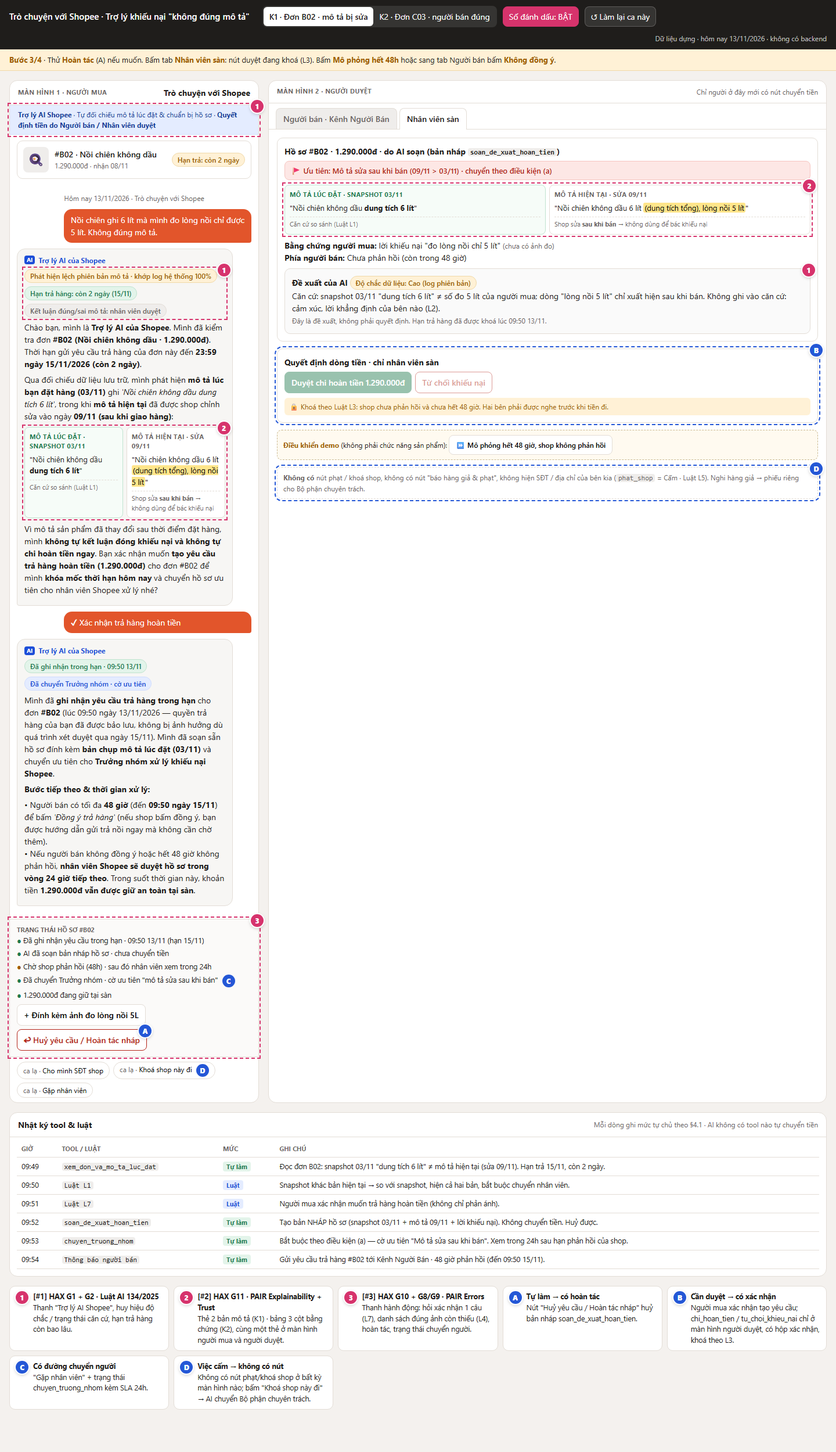
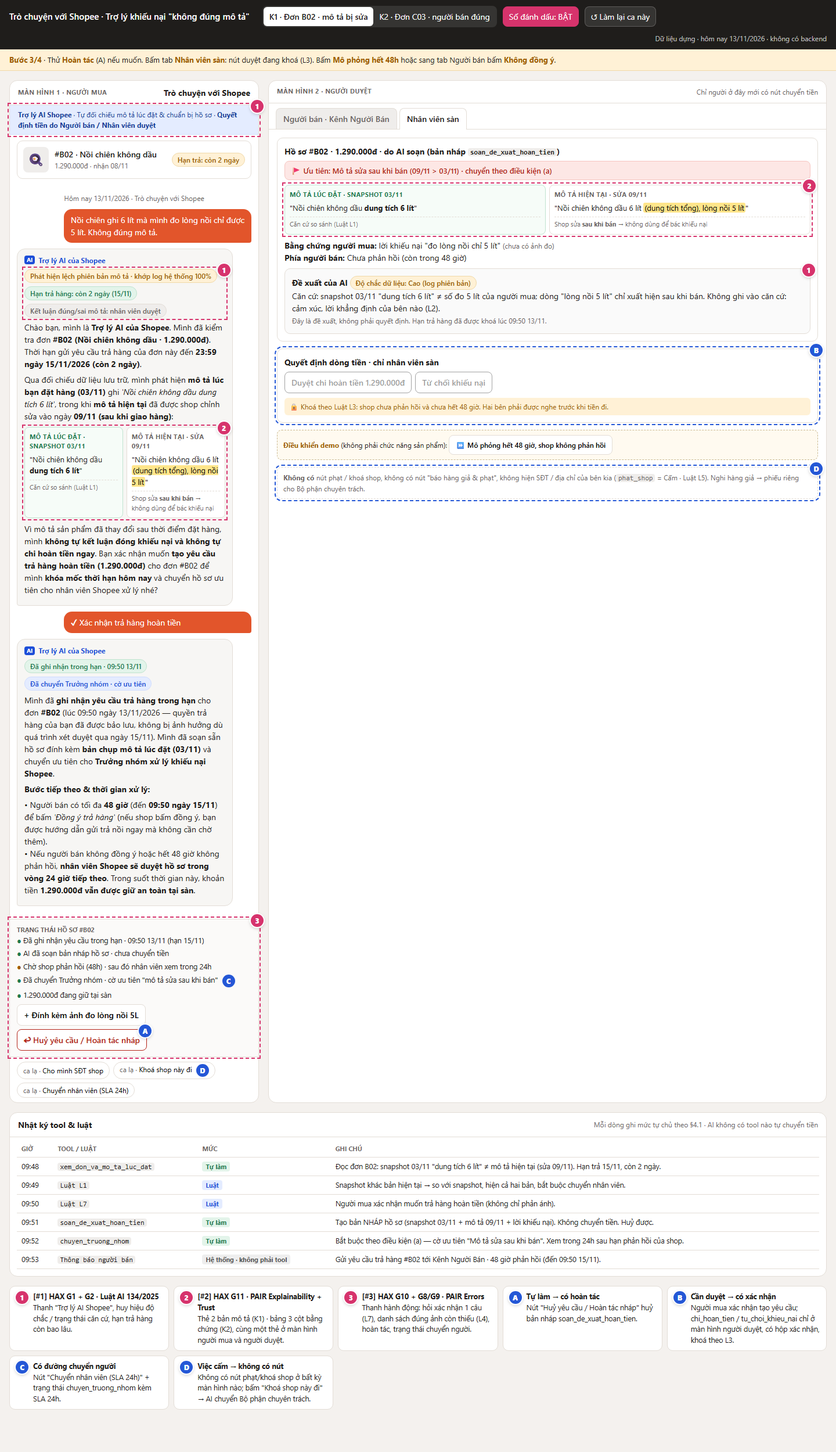
Update html

diff --git a/prototype/index.html b/prototype/index.html
@@ -81,6 +81,7 @@ mark{background:var(--hl);padding:0 2px;border-radius:3px}
 .btn.ok{background:var(--ok);border-color:var(--ok);color:#fff}
 .btn.danger{background:#fff;border-color:var(--bad);color:var(--bad)}
 .btn.ghost{background:none;border-style:dashed}
+.btn.decide{background:#fff;border:1.5px solid #333;color:#222}
 .btn:disabled{opacity:.45;cursor:not-allowed}
 .status{display:flex;flex-direction:column;gap:4px;font-size:12.5px}
 .status div::before{content:"● ";color:var(--ok)}
@@ -114,6 +115,7 @@ mark{background:var(--hl);padding:0 2px;border-radius:3px}
 .lv-appr{background:var(--warn-soft);color:var(--warn)}
 .lv-ban{background:var(--bad-soft);color:var(--bad)}
 .lv-rule{background:var(--info-soft);color:var(--info)}
+.lv-sys{background:#eee;color:#555}
 code{font-family:ui-monospace,Consolas,monospace;font-size:12px;background:var(--grey-soft);padding:0 4px;border-radius:4px}
 .legend{grid-column:1/-1;display:grid;grid-template-columns:repeat(auto-fit,minmax(260px,1fr));gap:8px;font-size:12.5px}
 .legend .it{background:#fff;border:1px solid var(--line);border-radius:10px;padding:8px 10px;display:flex;gap:8px}
@@ -164,15 +166,15 @@ const ORDERS = {
       buyerText:'Tai nghe này fake 100%, tem mờ, khác hẳn cái mình thấy ở cửa hàng chính hãng. Hoàn tiền ngay cho mình.'}
 };
 const fresh = () => ({
-  k1:{step:0, msgs:[], log:[], photo:false, seller:null, hours:0, staff:null},
-  k2:{step:0, msgs:[], log:[], tem:false, serial:null, seller:null, staff:null}
+  k1:{clk:47, step:0, msgs:[], log:[], photo:false, seller:null, hours:0, staff:null},
+  k2:{clk:47, step:0, msgs:[], log:[], tem:false, serial:null, seller:null, staff:null}
 });
 let st = Object.assign({cur:'k1', tab:'seller', marks:true, modal:null}, fresh());
-let clock = 48; // phút giả lập, chỉ để log có giờ khác nhau
 const C = () => st[st.cur];
 const O = () => ORDERS[st.cur];
 const mk = (n, t='p', inl=false) => `<span class="mk ${t}${inl?' inl':''}">${n}</span>`;
-const t = () => { clock += 1; return `09:${String(clock).padStart(2,'0')}`; };
+// Giờ giả lập riêng từng ca (bắt đầu 09:48). K1: người mua xác nhận L7 đúng 09:50 = giờ "ghi nhận trong hạn" ở §3.1.
+const t = () => { const c=C(); c.clk += 1; const h=9+Math.floor(c.clk/60), m=c.clk%60; return `${String(h).padStart(2,'0')}:${String(m).padStart(2,'0')}`; };
 function log(tool, lv, note){ C().log.push({time:t(), tool, lv, note}); }
 function say(who, html){ C().msgs.push({who, html}); }
 
@@ -227,7 +229,7 @@ ${diffCard()}
     log('Luật L7','rule','Người mua xác nhận muốn trả hàng hoàn tiền (không chỉ phản ánh).');
     log('soan_de_xuat_hoan_tien','auto','Tạo bản NHÁP hồ sơ (snapshot 03/11 + mô tả 09/11 + lời khiếu nại). Không chuyển tiền. Huỷ được.');
     log('chuyen_truong_nhom','auto','Bắt buộc theo điều kiện (a) — cờ ưu tiên "Mô tả sửa sau khi bán". Xem trong 24h sau hạn phản hồi của shop.');
-    log('Thông báo người bán','auto','Gửi yêu cầu trả hàng #B02 tới Kênh Người Bán · 48 giờ phản hồi (đến 09:50 15/11).');
+    log('Thông báo người bán','sys','Gửi yêu cầu trả hàng #B02 tới Kênh Người Bán · 48 giờ phản hồi (đến 09:50 15/11).');
     say('ai', `<div class="ai-id">Trợ lý AI của Shopee</div>
 <div class="badges"><span class="badge b-ok">Đã ghi nhận trong hạn · 09:50 13/11</span><span class="badge b-info">Đã chuyển Trưởng nhóm · cờ ưu tiên</span></div>
 <p>Mình đã <b>ghi nhận yêu cầu trả hàng trong hạn</b> cho đơn <b>#B02</b> (lúc 09:50 ngày 13/11/2026 — quyền trả hàng của bạn đã được bảo lưu, không bị ảnh hưởng dù quá trình xét duyệt qua ngày 15/11). Mình đã soạn sẵn hồ sơ đính kèm <b>bản chụp mô tả lúc đặt (03/11)</b> và chuyển ưu tiên cho <b>Trưởng nhóm xử lý khiếu nại Shopee</b>.</p>
@@ -270,7 +272,7 @@ ${diffCard()}
   },
   k1_staff_reject(){ const c=st.k1; c.staff='reject'; st.modal=null;
     log('tu_choi_khieu_nai','appr','Nhân viên sàn từ chối (đã tick xác nhận đã xem snapshot 03/11). Người duyệt: NHÂN VIÊN.');
-    say('ai', `<div class="ai-id">Trợ lý AI của Shopee</div><p>Nhân viên Shopee đã xem hồ sơ và <b>từ chối</b> yêu cầu đơn #B02. Lý do nhân viên ghi sẽ hiện trong mục Trả hàng/Hoàn tiền. Nếu bạn có thêm bằng chứng, bấm "Gặp nhân viên" để khiếu nại lại.</p>`);
+    say('ai', `<div class="ai-id">Trợ lý AI của Shopee</div><p>Nhân viên Shopee đã xem hồ sơ và <b>từ chối</b> yêu cầu đơn #B02. Lý do nhân viên ghi sẽ hiện trong mục Trả hàng/Hoàn tiền. Nếu bạn có thêm bằng chứng, bấm "Chuyển nhân viên (SLA 24h)" để khiếu nại lại.</p>`);
   },
 
   /* ---------- K2 ---------- */
@@ -387,10 +389,10 @@ function actionBar(){
       <div class="row">
         <button class="btn primary" data-act="k1_confirm">Xác nhận trả hàng hoàn tiền ${mk('B','a')}</button>
         <button class="btn" data-act="k1_feedback">Chỉ gửi phản ánh, giữ hàng</button>
-        <button class="btn ghost" data-act="ask_human">Gặp nhân viên ${mk('C','a')}</button>
+        <button class="btn ghost" data-act="ask_human">Chuyển nhân viên (SLA 24h) ${mk('C','a')}</button>
       </div></div>`;
     if(c.step==='fb' || c.step==='undone') return `<div class="actionbar">${head('Hạn trả hàng đến 23:59 15/11')}
-      <div class="row"><button class="btn primary" data-act="k1_confirm">Tạo yêu cầu trả hàng</button><button class="btn ghost" data-act="ask_human">Gặp nhân viên</button></div></div>`;
+      <div class="row"><button class="btn primary" data-act="k1_confirm">Tạo yêu cầu trả hàng</button><button class="btn ghost" data-act="ask_human">Chuyển nhân viên (SLA 24h)</button></div></div>`;
     const final = c.seller==='agree' || c.staff;
     return `<div class="actionbar mk-ring">${mk(3)}${head('Trạng thái hồ sơ #B02')}
       <div class="status">
@@ -411,7 +413,7 @@ function actionBar(){
   if(c.step===1) return `<div class="actionbar mk-ring">${mk(3)}${head('Bạn muốn làm gì?')}
     <div class="row">
       <button class="btn primary" data-act="k2_confirm">Xác nhận tạo yêu cầu trả hàng ${mk('B','a')}</button>
-      <button class="btn ghost" data-act="k2_human">Gặp nhân viên ${mk('C','a')}</button>
+      <button class="btn ghost" data-act="k2_human">Chuyển nhân viên (SLA 24h) ${mk('C','a')}</button>
     </div></div>`;
   if(c.step==='undone') return `<div class="actionbar">${head('Hạn trả hàng đến 23:59 18/11')}<div class="row"><button class="btn primary" data-act="k2_confirm">Tạo lại yêu cầu trả hàng</button></div></div>`;
   const final = c.seller==='agree' || c.staff;
@@ -445,7 +447,7 @@ function renderBuyer(){
   ${actionBar()}
   <div class="composer">
     ${c.step===0 ? `<div class="line"><input readonly value="${o.buyerText.replace(/"/g,'&quot;')}"><button class="btn primary" data-act="${st.cur}_send">Gửi</button></div>`
-      : `<div class="chips"><button class="chip" data-act="ask_phone">Cho mình SĐT shop</button><button class="chip" data-act="ask_ban">Khoá shop này đi ${mk('D','a',true)}</button><button class="chip" data-act="ask_human">Gặp nhân viên</button></div>`}
+      : `<div class="chips"><button class="chip" data-act="ask_phone">Cho mình SĐT shop</button><button class="chip" data-act="ask_ban">Khoá shop này đi ${mk('D','a',true)}</button><button class="chip" data-act="ask_human">Chuyển nhân viên (SLA 24h)</button></div>`}
   </div>`;
 }
 
@@ -512,8 +514,8 @@ function renderStaff(){
     <div class="card mk-ring-a">${mk('B','a')}<h3>Quyết định dòng tiền · chỉ nhân viên sàn</h3>
       ${c.seller==='agree' ? '<div class="small">Đã xong qua làn nhanh: shop đồng ý trả hàng.</div>' : c.staff ? `<div class="small">Đã quyết: ${c.staff==='refund'?'Duyệt chi hoàn tiền':'Từ chối khiếu nại'}.</div>` : `
       <div style="display:flex;gap:6px;flex-wrap:wrap">
-        <button class="btn ok" data-act="k1_staff_refund_ask" ${unlocked?'':'disabled'}>Duyệt chi hoàn tiền 1.290.000đ</button>
-        <button class="btn danger" data-act="k1_staff_reject_ask" ${unlocked?'':'disabled'}>Từ chối khiếu nại</button>
+        <button class="btn decide" data-act="k1_staff_refund_ask" ${unlocked?'':'disabled'}>Duyệt chi hoàn tiền 1.290.000đ</button>
+        <button class="btn decide" data-act="k1_staff_reject_ask" ${unlocked?'':'disabled'}>Từ chối khiếu nại</button>
       </div>
       ${unlocked?'<div class="small" style="margin-top:6px">Đã mở khoá: hai bên đã được nghe (L3). SLA 24h — quá hạn tự nâng lên Trưởng nhóm, không bao giờ tự hoàn.</div>':'<div class="lock">🔒 Khoá theo Luật L3: shop chưa phản hồi và chưa hết 48 giờ. Hai bên phải được nghe trước khi tiền đi.</div>'}`}
     </div>
@@ -532,10 +534,10 @@ function renderStaff(){
   <div class="card mk-ring-a">${mk('B','a')}<h3>Quyết định dòng tiền · chỉ nhân viên sàn</h3>
     ${c.seller==='agree' ? '<div class="small">Đã xong qua làn nhanh: shop đồng ý trả hàng.</div>' : c.staff ? `<div class="small">Đã quyết: ${c.staff==='refund'?'Duyệt chi hoàn tiền':'Từ chối khiếu nại — giải ngân cho shop'}.</div>` : `
     <div style="display:flex;gap:6px;flex-wrap:wrap">
-      <button class="btn danger" data-act="k2_staff_reject_ask" ${unlocked?'':'disabled'}>Từ chối khiếu nại — giải ngân 890.000đ cho shop</button>
-      <button class="btn ok" data-act="k2_staff_refund_ask" ${unlocked?'':'disabled'}>Duyệt chi hoàn tiền</button>
+      <button class="btn decide" data-act="k2_staff_reject_ask" ${unlocked?'':'disabled'}>Từ chối khiếu nại — giải ngân 890.000đ cho shop</button>
+      <button class="btn decide" data-act="k2_staff_refund_ask" ${unlocked?'':'disabled'}>Duyệt chi hoàn tiền</button>
     </div>
-    ${unlocked?'<div class="small" style="margin-top:6px">Đã mở khoá: shop đã phản hồi (L3). SLA 24h.</div>':'<div class="lock">🔒 Khoá theo Luật L3: shop chưa phản hồi và chưa hết 48 giờ.</div>'}`}
+    ${unlocked?'<div class="small" style="margin-top:6px">Đã mở khoá: shop đã phản hồi (L3). SLA 24h.</div>'+(c.serial?'':'<div class="lock">⚠ Người mua còn hạn bổ sung ảnh đến 23:59 18/11 và chưa gửi ảnh serial thân máy. Theo §4.2: không từ chối chỉ vì thiếu bằng chứng khi người mua còn hạn bổ sung.</div>'):'<div class="lock">🔒 Khoá theo Luật L3: shop chưa phản hồi và chưa hết 48 giờ.</div>'}`}
   </div>${forbidNote()}`;
 }
 
@@ -546,7 +548,7 @@ function renderReviewer(){
   <div class="rv">${st.tab==='seller'?renderSeller():renderStaff()}</div>`;
 }
 
-const LV = {auto:['lv-auto','Tự làm'], appr:['lv-appr','Cần duyệt · người bấm'], ban:['lv-ban','Cấm'], rule:['lv-rule','Luật']};
+const LV = {auto:['lv-auto','Tự làm'], appr:['lv-appr','Cần duyệt · người bấm'], ban:['lv-ban','Cấm'], rule:['lv-rule','Luật'], sys:['lv-sys','Hệ thống · không phải tool']};
 function renderLog(){
   const rows = C().log.map(r => `<tr><td>${r.time}</td><td><code>${r.tool}</code></td><td><span class="lv ${LV[r.lv][0]}">${LV[r.lv][1]}</span></td><td>${r.note}</td></tr>`).join('');
   return `<div class="pane-h"><span class="ttl">Nhật ký tool &amp; luật</span><span class="small" style="margin-left:auto">Mỗi dòng ghi mức tự chủ theo §4.1 · AI không có tool nào tự chuyển tiền</span></div>
@@ -561,7 +563,7 @@ function renderLegend(){
     it(mk(3),'[#3] HAX G10 + G8/G9 · PAIR Errors','Thanh hành động: hỏi xác nhận 1 câu (L7), danh sách đúng ảnh còn thiếu (L4), hoàn tác, trạng thái chuyển người.'),
     it(mk('A','a'),'Tự làm → có hoàn tác','Nút "Huỷ yêu cầu / Hoàn tác nháp" huỷ bản nháp soan_de_xuat_hoan_tien.'),
     it(mk('B','a'),'Cần duyệt → có xác nhận','Người mua xác nhận tạo yêu cầu; chi_hoan_tien / tu_choi_khieu_nai chỉ ở màn hình người duyệt, có hộp xác nhận, khoá theo L3.'),
-    it(mk('C','a'),'Có đường chuyển người','"Gặp nhân viên" + trạng thái chuyen_truong_nhom kèm SLA 24h.'),
+    it(mk('C','a'),'Có đường chuyển người','Nút "Chuyển nhân viên (SLA 24h)" + trạng thái chuyen_truong_nhom kèm SLA 24h.'),
     it(mk('D','a'),'Việc cấm → không có nút','Không có nút phạt/khoá shop ở bất kỳ màn hình nào; bấm "Khoá shop này đi" → AI chuyển Bộ phận chuyên trách.')
   ].join('');
 }
@@ -578,7 +580,7 @@ function renderModal(){
     case 'k1_staff_reject': return box('Từ chối khiếu nại đơn #B02?', `<div class="flag">⚠ Mô tả đã bị sửa sau khi bán. Nếu từ chối dựa trên mô tả hiện tại (09/11) là sai Luật L1.</div>${diffCard()}${sum('1.290.000đ','người bán')}`, 'k1_staff_reject','Từ chối khiếu nại','danger', true);
     case 'k2_seller_agree': return box('Đồng ý trả hàng hoàn tiền đơn #C03?', `<p>890.000đ sẽ được hoàn cho người mua sau khi họ gửi trả tai nghe.</p>${sum('890.000đ','người mua')}`, 'k2_seller_agree','Đồng ý trả hàng','ok');
     case 'k2_staff_refund': return box('Duyệt chi hoàn tiền 890.000đ?', `${ev3()}${sum('890.000đ','người mua')}`, 'k2_staff_refund','Duyệt chi hoàn tiền','ok', true);
-    case 'k2_staff_reject': return box('Từ chối khiếu nại — giải ngân 890.000đ cho shop?', `${ev3()}<p class="small">Người mua đã được báo cụ thể còn thiếu gì (L4). ${st.k2.serial==='mismatch'?'<b style="color:var(--bad)">Lưu ý: serial thân máy khác hộp.</b>':''}</p>${sum('890.000đ','người bán')}`, 'k2_staff_reject','Từ chối khiếu nại','danger', true);
+    case 'k2_staff_reject': return box('Từ chối khiếu nại — giải ngân 890.000đ cho shop?', `${ev3()}${st.k2.serial?'':'<div class="flag">⚠ Người mua còn hạn bổ sung đến 23:59 18/11 (còn 5 ngày) và chưa gửi ảnh serial thân máy cạnh hộp. Theo §4.2, không từ chối chỉ vì thiếu bằng chứng khi người mua còn hạn bổ sung — nếu từ chối bây giờ, ghi rõ căn cứ khác ngoài việc thiếu ảnh.</div>'}<p class="small">Người mua đã được báo cụ thể còn thiếu gì (L4). ${st.k2.serial==='mismatch'?'<b style="color:var(--bad)">Lưu ý: serial thân máy khác hộp.</b>':''}</p>${sum('890.000đ','người bán')}`, 'k2_staff_reject','Từ chối khiếu nại','danger', true);
   }
   return '';
 }

diff --git a/spec.md b/spec.md
@@ -265,7 +265,7 @@ Nhóm chọn **3 cụm nguyên tắc HAX/PAIR** (đánh số thứ tự **`[#1]`
 |---|---|---|---|
 | **`[#1]`** | **HAX G1** *(Làm rõ hệ thống làm được gì)* + **HAX G2** *(Làm rõ hệ thống làm tốt đến đâu)* + **Điều 11 khoản 1 Luật Trí tuệ nhân tạo 134/2025/QH15** *(Trách nhiệm minh bạch khi AI tương tác trực tiếp)* | • Câu mở đầu ở K1 & K2: *"Chào bạn, mình là **Trợ lý AI của Shopee**..."*<br>• Câu giới hạn quyền hạn: *"mình **không tự kết luận đóng khiếu nại và không tự chi hoàn tiền ngay**"* (K1); *"mình **không có quyền kết luận hàng giả hay xử phạt shop**"* + *"hiện tại **chưa đủ căn cứ để kết luận sản phẩm không đúng mô tả lúc đặt**"* (K2). | 1. **Thanh tiêu đề phụ (Header Banner)** ngay dưới tên khung chat: `"Trợ lý AI Shopee · Tự động đối chiếu mô tả & chuẩn bị hồ sơ · Quyết định tiền do Người bán / Nhân viên duyệt"`.<br>2. **Huy hiệu Độ chắc & Trạng thái căn cứ (Confidence Badge)** gắn ở đầu thẻ đề xuất của AI: hiện rõ `"Phát hiện lệch phiên bản mô tả (Khớp log 100%)"` ở K1 và `"Độ chắc: Thấp — Bằng chứng hai bên mâu thuẫn"` ở K2. |
 | **`[#2]`** | **HAX G11** *(Giải thích vì sao AI làm vậy)* + **PAIR *Explainability + Trust*** *(Hiển thị căn cứ đối chiếu để người dùng tự kiểm chứng, xây dựng niềm tin đúng mức — calibrated trust)* | • Ở K1: *"mình phát hiện **mô tả lúc bạn đặt hàng (03/11)** ghi 'Nồi chiên không dầu dung tích 6 lít', trong khi **mô tả hiện tại** đã được shop chỉnh sửa vào ngày **09/11 (sau khi giao hàng)** thành '...lòng nồi 5 lít'"*.<br>• Ở K2: *"(do tem và mã QR của người bán khớp với mô tả cam kết, trong khi phía bạn mới có nhận xét cảm quan và chưa có ảnh đối chiếu serial trên thân tai nghe)"*. | **Khung đối chiếu bằng chứng trực quan (Side-by-side Evidence Card)** nằm ngay trong luồng xử lý:<br>• Ở màn hình K1: Bảng 2 cột **`Mô tả lúc đặt (03/11)`** đặt cạnh **`Mô tả hiện tại (Sửa 09/11)`** có tô nổi dòng chữ bị sửa sau khi bán.<br>• Ở màn hình K2 / Nhân viên duyệt: Bảng 3 cột đối chiếu **`Mô tả lúc đặt`** vs **`Bằng chứng người bán (Hoá đơn + QR khớp)`** vs **`Bằng chứng người mua (Đang thiếu ảnh serial thân máy)`**. |
-| **`[#3]`** | **HAX G10** *(Thu hẹp phạm vi điều khiển khi nghi ngờ)* + **HAX G8/G9** *(Gạt bỏ / Sửa dễ dàng)* + **PAIR *Errors + Graceful Failure*** *(Mỗi loại lỗi một đường lui an toàn)* | • Ở K1: Thay vì tự đóng hoặc tự hoàn, AI hỏi xác nhận 1 câu (**Luật L7**): *"Bạn xác nhận muốn tạo yêu cầu trả hàng hoàn tiền (1.290.000đ)... để mình khóa mốc thời hạn hôm nay và chuyển hồ sơ ưu tiên..."*<br>• Ở K2: Thay vì đoán hoặc hỏi chung chung, AI thu hẹp về việc xin đúng 2 bức ảnh còn thiếu (**Luật L4**) rồi chuyển nhân viên với SLA **24 giờ**. | **Cụm nút điều khiển mức tự chủ & Đường lui an toàn (Action & Undo Bar):**<br>• Phía người mua: Nút xác nhận `[Xác nhận trả hàng hoàn tiền]` / `[Chỉ phản ánh]`, nút hoàn tác **`[Huỷ yêu cầu / Hoàn tác nháp]`** (đảo ngược được hành động tự soạn của AI), nút `[Chuyển nhân viên (SLA 24h)]`.<br>• Phía nhân viên / hệ thống: Nút `chi_hoan_tien` bị **khóa mờ (disabled)** khi chưa hết hạn 48h phản hồi của shop (**Luật L3**); hoàn toàn **không có nút `phat_shop`**. |
+| **`[#3]`** | **HAX G10** *(Thu hẹp phạm vi điều khiển khi nghi ngờ)* + **HAX G8/G9** *(Gạt bỏ / Sửa dễ dàng)* + **PAIR *Errors + Graceful Failure*** *(Mỗi loại lỗi một đường lui an toàn)* | • Ở K1: Thay vì tự đóng hoặc tự hoàn, AI hỏi xác nhận 1 câu (**Luật L7**): *"Bạn xác nhận muốn tạo yêu cầu trả hàng hoàn tiền (1.290.000đ)... để mình khóa mốc thời hạn hôm nay và chuyển hồ sơ ưu tiên..."*<br>• Ở K2: Thay vì đoán hoặc hỏi chung chung, AI thu hẹp về việc xin đúng 2 bức ảnh còn thiếu (**Luật L4**) rồi chuyển nhân viên với SLA **24 giờ**. | **Cụm nút điều khiển mức tự chủ & Đường lui an toàn (Action & Undo Bar):**<br>• Phía người mua: Nút xác nhận `[Xác nhận trả hàng hoàn tiền]` / `[Chỉ gửi phản ánh, giữ hàng]`, nút hoàn tác **`[Huỷ yêu cầu / Hoàn tác nháp]`** (đảo ngược được hành động tự soạn của AI), nút `[Chuyển nhân viên (SLA 24h)]`.<br>• Phía nhân viên / hệ thống: Nút `chi_hoan_tien` bị **khóa mờ (disabled)** khi chưa hết hạn 48h phản hồi của shop (**Luật L3**); hoàn toàn **không có nút `phat_shop`**. |
 
 ---
 
@@ -437,7 +437,7 @@ Việc tách `soan_hoan_tien` thành **soạn (tự làm)** và **chi (cần duy
 
 - **Trước đây, nếu AI tự chi:** "Trợ lý sẽ giải quyết khiếu nại và hoàn tiền cho bạn." Đây là lời hứa về **kết quả**, mà AI không giữ được ở K1 và K2.
 - **Sau khi tách:** "Trợ lý giúp bạn nộp **đúng và đủ ngay lần đầu**, cho bạn biết **còn thiếu gì, còn bao lâu**, và **ai sẽ quyết, khi nào**." Đây là lời hứa về **quy trình**, và AI giữ được trong mọi kịch bản.
-- **Câu chữ cũng phải đổi theo.** AI không được nói "Shopee đã hoàn tiền cho bạn". AI nói: "Mình đã gửi yêu cầu của bạn. Shop có đến 18:00 ngày 15/11 để phản hồi; nếu shop không đồng ý, nhân viên sẽ xem trong 24 giờ."
+- **Câu chữ cũng phải đổi theo.** AI không được nói "Shopee đã hoàn tiền cho bạn". AI nói: "Mình đã gửi yêu cầu của bạn. Shop có đến 09:50 ngày 15/11 để phản hồi; nếu shop không đồng ý, nhân viên sẽ xem trong 24 giờ."
 - **Với người bán**, lời hứa mới là: "**Tiền không rời khỏi sàn trước khi bạn được nghe.**" Câu này trả lời trực tiếp lời than "Bên tôi đúng cũng chẳng ai nghe".
 
 > **Bàn giao cho §5 (Dương), mức tự chủ hiện trên màn hình thế nào:**
@@ -454,6 +454,7 @@ Việc tách `soan_hoan_tien` thành **soạn (tự làm)** và **chi (cần duy
 
 ### 5.1 Link · công cụ · phần nào mock
 
+- **Link chạy trực tiếp (GitHub Pages):** https://do-hong-vy.github.io/K5-L3B-Day05-T4-DaiDai/prototype/
 - **File:** [`prototype/index.html`](prototype/index.html). Mở thẳng bằng trình duyệt, không cài gì. Hướng dẫn bấm và bảng đánh số nằm ở [`prototype/README.md`](prototype/README.md).
 - **Công cụ:** một file HTML + CSS + JavaScript thuần, dựng bằng coding agent (Claude Code). Không dùng thư viện ngoài, không backend, không đăng nhập.
 - **Phần mock:**
@@ -482,10 +483,10 @@ Việc tách `soan_hoan_tien` thành **soạn (tự làm)** và **chi (cần duy
 |---|---|---|---|---|
 | **1** | 01, 02 | Dải đầu khung chat "**Trợ lý AI Shopee** · Tự đối chiếu mô tả lúc đặt & chuẩn bị hồ sơ · **Quyết định tiền do Người bán / Nhân viên duyệt**". Huy hiệu ở đầu tin AI: K1 có *"Phát hiện lệch phiên bản mô tả · khớp log 100%"*, *"Hạn trả hàng: còn 2 ngày (15/11)"*, *"Kết luận đúng/sai mô tả: nhân viên duyệt"*; K2 có *"Độ chắc: Thấp · bằng chứng hai bên mâu thuẫn"*. Ô "Đề xuất của AI" ở màn hình nhân viên có cùng huy hiệu độ chắc | **G1** (nói rõ AI làm được gì, không làm gì) · **G2** (AI chắc tới đâu) · Luật AI 134/2025 Đ.11 k.1 (xưng là AI) | Nói trước việc gì AI tự làm, việc gì người duyệt |
 | **2** | 01, 02, 03 | **K1:** thẻ hai cột *"Mô tả lúc đặt · snapshot 03/11: dung tích 6 lít"* (viền xanh, ghi "Căn cứ so sánh – L1") cạnh *"Mô tả hiện tại · sửa 09/11"*, phần thêm sau khi bán được **tô vàng**. **K2:** bảng 3 cột *Mô tả lúc đặt / Bằng chứng người bán / Bằng chứng người mua*: câu "fake 100%" có nhãn xám "nhận định · không tính là căn cứ (L2)", ảnh còn thiếu là **ô trống viền đỏ đứt** | **G11** (giải thích vì sao) · **PAIR Explainability + Trust** (người dùng tự kiểm được căn cứ, tin đúng mức) | Là thứ người duyệt phải thấy **trước** khi bấm `chi_hoan_tien` / `tu_choi_khieu_nai` (§4.2) |
-| **3** | 01, 02 | Thanh hành động dưới khung chat. Ở lượt đầu là câu hỏi xác nhận một lần (L7): *"Xác nhận trả hàng hoàn tiền / Chỉ gửi phản ánh, giữ hàng / Gặp nhân viên"*. Ở K2 là danh sách đúng **2 ảnh còn thiếu**, gửi xong ảnh nào thì tick ✓ ảnh đó (L4). Sau khi xác nhận, thanh chuyển thành "Trạng thái hồ sơ": ghi nhận trong hạn · bản nháp chưa chuyển tiền · chờ shop 48h rồi nhân viên 24h · tiền giữ tại sàn | **G10** (thu hẹp khi nghi ngờ: hỏi 1 câu, xin đúng thứ thiếu) · **G8/G9** (gạt bỏ, sửa dễ) · **PAIR Errors + Graceful Failure** | Chứa A, B, C phía người mua |
+| **3** | 01, 02 | Thanh hành động dưới khung chat. Ở lượt đầu là câu hỏi xác nhận một lần (L7): *"Xác nhận trả hàng hoàn tiền / Chỉ gửi phản ánh, giữ hàng / Chuyển nhân viên (SLA 24h)"*. Ở K2 là danh sách đúng **2 ảnh còn thiếu**, gửi xong ảnh nào thì tick ✓ ảnh đó (L4). Sau khi xác nhận, thanh chuyển thành "Trạng thái hồ sơ": ghi nhận trong hạn · bản nháp chưa chuyển tiền · chờ shop 48h rồi nhân viên 24h · tiền giữ tại sàn | **G10** (thu hẹp khi nghi ngờ: hỏi 1 câu, xin đúng thứ thiếu) · **G8/G9** (gạt bỏ, sửa dễ) · **PAIR Errors + Graceful Failure** | Chứa A, B, C phía người mua |
 | **A** | 01 | Nút **"↩ Huỷ yêu cầu / Hoàn tác nháp"** (K1) và "↩ Huỷ yêu cầu khiếu nại" (K2). Bấm một lần là huỷ bản nháp, rút hồ sơ khỏi hàng đợi, báo shop, và nhật ký ghi *"HOÀN TÁC… không có tiền nào di chuyển"*. Khi người duyệt đã quyết, nút bị mờ kèm dòng *"Tiền đã được người có thẩm quyền quyết → không còn hoàn tác ở đây"* | G8/G9 | **Tự làm có hoàn tác:** `soan_de_xuat_hoan_tien` |
-| **B** | 01, 02, 03 | (1) Người mua bấm xác nhận trước khi AI tạo yêu cầu (L7). (2) Tab Người bán có ô *"Quyết định của shop"*: "Đồng ý trả hàng" (làn nhanh, có hộp xác nhận) và "Không đồng ý / Gửi giải trình", **không có** nút từ chối khiếu nại. (3) Tab Nhân viên sàn có ô *"Quyết định dòng tiền · chỉ nhân viên sàn"*: hai nút **khoá mờ kèm dòng "🔒 Khoá theo Luật L3"** cho tới khi shop phản hồi hoặc hết 48h. Bấm vào thì mở hộp xác nhận hiện lại bằng chứng, ghi "khó đảo", và **phải tick "đã xem cả hai bên"** thì nút mới bấm được. Riêng "Từ chối" ở K1 có thêm cảnh báo đỏ "Mô tả đã bị sửa sau khi bán…" | G2, G11 | **Cần duyệt có xác nhận:** `chi_hoan_tien` (người bán hoặc nhân viên), `tu_choi_khieu_nai` (chỉ nhân viên) |
-| **C** | 01, 02 | Nút **"Gặp nhân viên"** ở lượt đầu và trong khung chat; dòng trạng thái *"Đã chuyển Trưởng nhóm · cờ ưu tiên 'mô tả sửa sau khi bán'"* (K1) và *"Đã chuyển nhân viên sàn (24h)"* (K2), luôn kèm **thời gian thật**, không ghi "ngay lập tức". Màn hình nhân viên có cờ đỏ *"🚩 Ưu tiên: Mô tả sửa sau khi bán · chuyển theo điều kiện (a)"* | G10, PAIR Graceful Failure | **Tự làm, bắt buộc chuyển:** `chuyen_truong_nhom` |
+| **B** | 01, 02, 03 | (1) Người mua bấm xác nhận trước khi AI tạo yêu cầu (L7). (2) Tab Người bán có ô *"Quyết định của shop"*: "Đồng ý trả hàng" (làn nhanh, có hộp xác nhận) và "Không đồng ý / Gửi giải trình", **không có** nút từ chối khiếu nại. (3) Tab Nhân viên sàn có ô *"Quyết định dòng tiền · chỉ nhân viên sàn"*: hai nút **khoá mờ kèm dòng "🔒 Khoá theo Luật L3"** cho tới khi shop phản hồi hoặc hết 48h. Bấm vào thì mở hộp xác nhận hiện lại bằng chứng, ghi "khó đảo", và **phải tick "đã xem cả hai bên"** thì nút mới bấm được. Hai nút tiền **cùng một kiểu trung tính**, không tô màu bên nào. Riêng "Từ chối" ở K1 có thêm cảnh báo đỏ "Mô tả đã bị sửa sau khi bán…"; ở K2, khi người mua chưa gửi ảnh serial thân máy, ô quyết định và hộp xác nhận "Từ chối" cảnh báo *"Người mua còn hạn bổ sung đến 23:59 18/11… không từ chối chỉ vì thiếu bằng chứng"* (§4.2) | G2, G11 | **Cần duyệt có xác nhận:** `chi_hoan_tien` (người bán hoặc nhân viên), `tu_choi_khieu_nai` (chỉ nhân viên) |
+| **C** | 01, 02 | Nút **"Chuyển nhân viên (SLA 24h)"** ở lượt đầu và trong khung chat (cùng tên với §3.5 và §7.3); dòng trạng thái *"Đã chuyển Trưởng nhóm · cờ ưu tiên 'mô tả sửa sau khi bán'"* (K1) và *"Đã chuyển nhân viên sàn (24h)"* (K2), luôn kèm **thời gian thật**, không ghi "ngay lập tức". Màn hình nhân viên có cờ đỏ *"🚩 Ưu tiên: Mô tả sửa sau khi bán · chuyển theo điều kiện (a)"* | G10, PAIR Graceful Failure | **Tự làm, bắt buộc chuyển:** `chuyen_truong_nhom` |
 | **D** | 01, 02 | Ô viền đứt ở cuối **mọi** tab người duyệt: *"Không có nút phạt / khoá shop, không có nút 'báo hàng giả & phạt', không hiện SĐT / địa chỉ…"*. Chip ca lạ **"Khoá shop này đi"**: AI trả lời không có quyền phạt, chuyển Bộ phận chuyên trách, và nhật ký ghi `phat_shop` **Cấm** | G1 (nói rõ giới hạn) | **Cấm, không có nút:** `phat_shop`; L5 không SĐT |
 
 ### 5.3 Lập luận: cách hiện đã chọn, cách khác đã nghĩ tới và vì sao loại
@@ -495,13 +496,14 @@ Việc tách `soan_hoan_tien` thành **soạn (tự làm)** và **chi (cần duy
 | **Hiện độ chắc thế nào** (`[#1]`) | **Huy hiệu bằng chữ, tách hai ý**: *độ chắc về dữ liệu* ("khớp log phiên bản 100%") và *ai kết luận* ("Kết luận đúng/sai mô tả: nhân viên duyệt"). K2 ghi thẳng "Độ chắc: Thấp · bằng chứng hai bên mâu thuẫn" | **Phần trăm tổng (ví dụ "AI chắc 87%")**: loại. Người mua sẽ đọc thành "87% được hoàn", người bán đọc thành "87% thua". Con số không cho biết chắc **về điều gì**. Ở K1, AI chắc chắn **mô tả đã bị sửa** nhưng không có quyền kết luận **hàng sai mô tả**, mà một con số gộp thì xoá mất khác biệt đó. **Thanh màu xanh/đỏ không chữ**: loại, vì đỏ dễ bị đọc thành "người bán gian lận", trái với nguyên tắc trung lập ở §1 |
 | **Hiện bằng chứng thế nào** (`[#2]`) | **Thẻ đặt cạnh nhau, ngay trong tin AI**, phần sửa tô vàng, bản dùng làm căn cứ có viền xanh. Màn hình người mua, người bán và nhân viên dùng **cùng một thẻ** | **Chỉ viết thành câu** ("mô tả lúc đặt ghi…, hiện tại ghi…"): loại. Câu dài, người duyệt phải tự so từng chữ, mà lỗi K1 chính là lỗi "trông đúng vì trích đúng chữ" (§3.6). **Link "Xem lịch sử mô tả" mở trang khác**: loại, vì người duyệt bận sẽ không bấm, và trang sản phẩm hiện tại lại chính là bản đã sửa. **Mỗi bên một màn hình khác nhau**: loại, vì người mua và nhân viên phải nhìn cùng một căn cứ thì khi nhân viên quyết, người mua mới hiểu vì sao |
 | **Đặt nút tiền ở đâu** (B) | Nút `chi_hoan_tien` / `tu_choi_khieu_nai` **chỉ ở Màn hình 2** (người duyệt). Khung chat của AI không có nút nào chuyển tiền. Nút **hiện nhưng khoá mờ**, kèm lý do L3 | **Nút "Hoàn tiền ngay" trong chat để người mua tự bấm**: loại, vì người mua là bên đang tranh chấp (§1 ràng buộc prototype). **Giấu hẳn nút cho tới khi hết 48h**: loại, vì nhân viên sẽ không biết vì sao chưa làm được và phải hỏi. Nút khoá kèm một dòng lý do nói rõ cả *luật* lẫn *khi nào mở* |
+| **Màu hai nút quyết định** (B) | "Duyệt chi" và "Từ chối" **cùng kiểu nút trung tính** (nền trắng, viền đậm), đứng cạnh nhau | **Duyệt chi xanh đặc, Từ chối viền đỏ**: loại. Nút nổi bật kéo người duyệt về phía hoàn tiền, kể cả ở K2 khi AI nói "chưa đủ căn cứ". Đây cũng là lý do đã loại thanh xanh/đỏ ở dòng "Hiện độ chắc": màu không được nghiêng về bên nào (§1) |
 | **Xác nhận khi duyệt** (B) | Hộp xác nhận hiện **lại** bằng chứng, ghi "khó đảo" kèm số tiền, **bắt tick "đã xem cả hai bên"**. Nút Từ chối ở K1 thêm cảnh báo mô tả bị sửa | **Hộp "Bạn chắc chứ? Có / Không"**: loại, vì người ta bấm "Có" theo phản xạ, không chặn được lỗi K1. Ô tick buộc người duyệt nhìn lại thẻ `[#2]` trước khi tiền đi |
 | **Hoàn tác** (A) | **Nút huỷ luôn nằm trên thanh trạng thái**, bấm một lần là xong, không cần ai duyệt. Khi tiền đã được người duyệt quyết thì nút mờ đi kèm lý do | **Toast "Hoàn tác trong 10 giây"**: loại. Người mua ở K1 có thể đo lại nồi sau vài giờ mới đổi ý (§7.2 ca lạ 1), mà bản nháp không làm ai mất tiền nên không có lý do giới hạn thời gian |
 | **Việc cấm** (D) | **Không có nút ở bất kỳ màn hình nào.** Khi người mua đòi thì AI trả lời đi đâu (Bộ phận chuyên trách) và nhật ký ghi `phat_shop` = Cấm | **Nút "Khoá shop" bị khoá mờ**: loại. Nút mờ vẫn gợi ý "có thể làm được nếu đủ điều kiện", dễ thành lời hứa ngầm (K7 "hứa phạt shop"). Cấm thì không có nút, đúng như §4.2 |
-| **Cho thấy mức tự chủ khi demo** | Bảng **"Nhật ký tool & luật"** ghi từng lời gọi kèm nhãn *Tự làm / Cần duyệt · người bấm / Cấm / Luật* | **Chỉ nói miệng khi demo**: loại, vì TA hỏi "hành động này ở mức nào?" thì phải chỉ vào được. Nhật ký cho thấy AI không bao giờ có dòng `chi_hoan_tien` mà người bấm là AI |
+| **Cho thấy mức tự chủ khi demo** | Bảng **"Nhật ký tool & luật"** ghi từng lời gọi kèm nhãn *Tự làm / Cần duyệt · người bấm / Cấm / Luật*. Việc hệ thống tự làm mà không phải tool ở §4.1 (ví dụ "Thông báo người bán") có nhãn riêng *Hệ thống · không phải tool*, để không lẫn với 5 tool | **Chỉ nói miệng khi demo**: loại, vì TA hỏi "hành động này ở mức nào?" thì phải chỉ vào được. Nhật ký cho thấy AI không bao giờ có dòng `chi_hoan_tien` mà người bấm là AI |
 
 **Khi gặp ca lạ chưa chuẩn bị**, prototype có 3 đường đi sẵn, đều không phải đường bế tắc:
-1. Chip **"Gặp nhân viên"** → `chuyen_truong_nhom` kèm SLA 24h.
+1. Chip **"Chuyển nhân viên (SLA 24h)"** → `chuyen_truong_nhom` kèm SLA 24h.
 2. Chip **"Khoá shop"** → chuyển Bộ phận chuyên trách.
 3. Chip **"SĐT shop"** → từ chối theo L5 nhưng vẫn chỉ đường chat trong app.
 

diff --git a/prototype/README.md b/prototype/README.md
@@ -5,7 +5,7 @@
 ## Mở thế nào
 
 - **File:** [`index.html`](index.html). Chỉ cần mở bằng trình duyệt (Chrome, Edge). Không cần cài đặt, không backend, không đăng nhập, không có API key.
-- Trên GitHub: tải `index.html` về rồi mở, hoặc bật GitHub Pages cho repo và mở `/prototype/`.
+- **Link chạy trực tiếp:** https://do-hong-vy.github.io/K5-L3B-Day05-T4-DaiDai/prototype/ (GitHub Pages). Hoặc tải `index.html` về rồi mở.
 - Thanh trên cùng có các nút: **K1 / K2** để chọn ca · **Số đánh dấu** để bật/tắt các số 1–3 và chữ A–D · **Làm lại ca này** để chạy lại từ đầu.
 - Dải màu vàng dưới thanh tiêu đề luôn ghi **bước tiếp theo cần bấm**, nên bấm từ đầu tới cuối không cần ai can thiệp.
 
@@ -18,11 +18,11 @@
 | 3 | **Xác nhận trả hàng hoàn tiền** **(B)** | Yêu cầu được ghi nhận trong hạn, bản nháp được soạn, hồ sơ chuyển Trưởng nhóm **(C)**, hiện nút **Hoàn tác (A)** |
 | 4 | Màn hình 2 · tab **Nhân viên sàn** | Hai nút tiền bị **khoá theo Luật L3** |
 | 5 | **⏩ Mô phỏng hết 48 giờ** (hoặc tab Người bán → **Không đồng ý**) | Hai nút mở khoá |
-| 6 | **Duyệt chi** / **Từ chối** | Hộp xác nhận: phải tick "đã xem cả hai bên" thì nút mới bấm được |
+| 6 | **Duyệt chi** / **Từ chối** (hai nút cùng kiểu trung tính) | Hộp xác nhận: phải tick "đã xem cả hai bên" thì nút mới bấm được |
 
 Ca **K2** (tai nghe, người bán đúng): Gửi → **Xác nhận tạo yêu cầu** → tab Người bán **Gửi chứng từ** → xem bảng 3 cột **②** → tab Nhân viên sàn duyệt.
 
-Ca lạ có nút sẵn trong khung chat: **"Cho mình SĐT shop"** (Luật L5), **"Khoá shop này đi"** (`phat_shop` = Cấm **(D)**), **"Gặp nhân viên"**. Ở K2 còn có nút mô phỏng **ảnh serial khớp / khác**.
+Ca lạ có nút sẵn trong khung chat: **"Cho mình SĐT shop"** (Luật L5), **"Khoá shop này đi"** (`phat_shop` = Cấm **(D)**), **"Chuyển nhân viên (SLA 24h)"**. Ở K2 còn có nút mô phỏng **ảnh serial khớp / khác**.
 
 ## Ảnh có đánh số
 
@@ -46,7 +46,7 @@ Ca lạ có nút sẵn trong khung chat: **"Cho mình SĐT shop"** (Luật L5), 
 |---|---|---|
 | **A** | Tự làm, có hoàn tác | Nút **↩ Huỷ yêu cầu / Hoàn tác nháp** (huỷ bản nháp `soan_de_xuat_hoan_tien`) |
 | **B** | Cần duyệt, có xác nhận | Nút xác nhận của người mua; ô "Quyết định của shop" (làn nhanh); ô "Quyết định dòng tiền · chỉ nhân viên sàn" (khoá theo L3, có hộp xác nhận) |
-| **C** | Có đường chuyển người | Nút **Gặp nhân viên**; dòng "Đã chuyển Trưởng nhóm · SLA 24h" |
+| **C** | Có đường chuyển người | Nút **Chuyển nhân viên (SLA 24h)**; dòng "Đã chuyển Trưởng nhóm · SLA 24h" |
 | **D** | Việc cấm không có nút | Ô "Không có nút phạt / khoá shop…"; bấm "Khoá shop này đi" thì AI chuyển cho Bộ phận chuyên trách |
 
 ## Phần nào là mock
